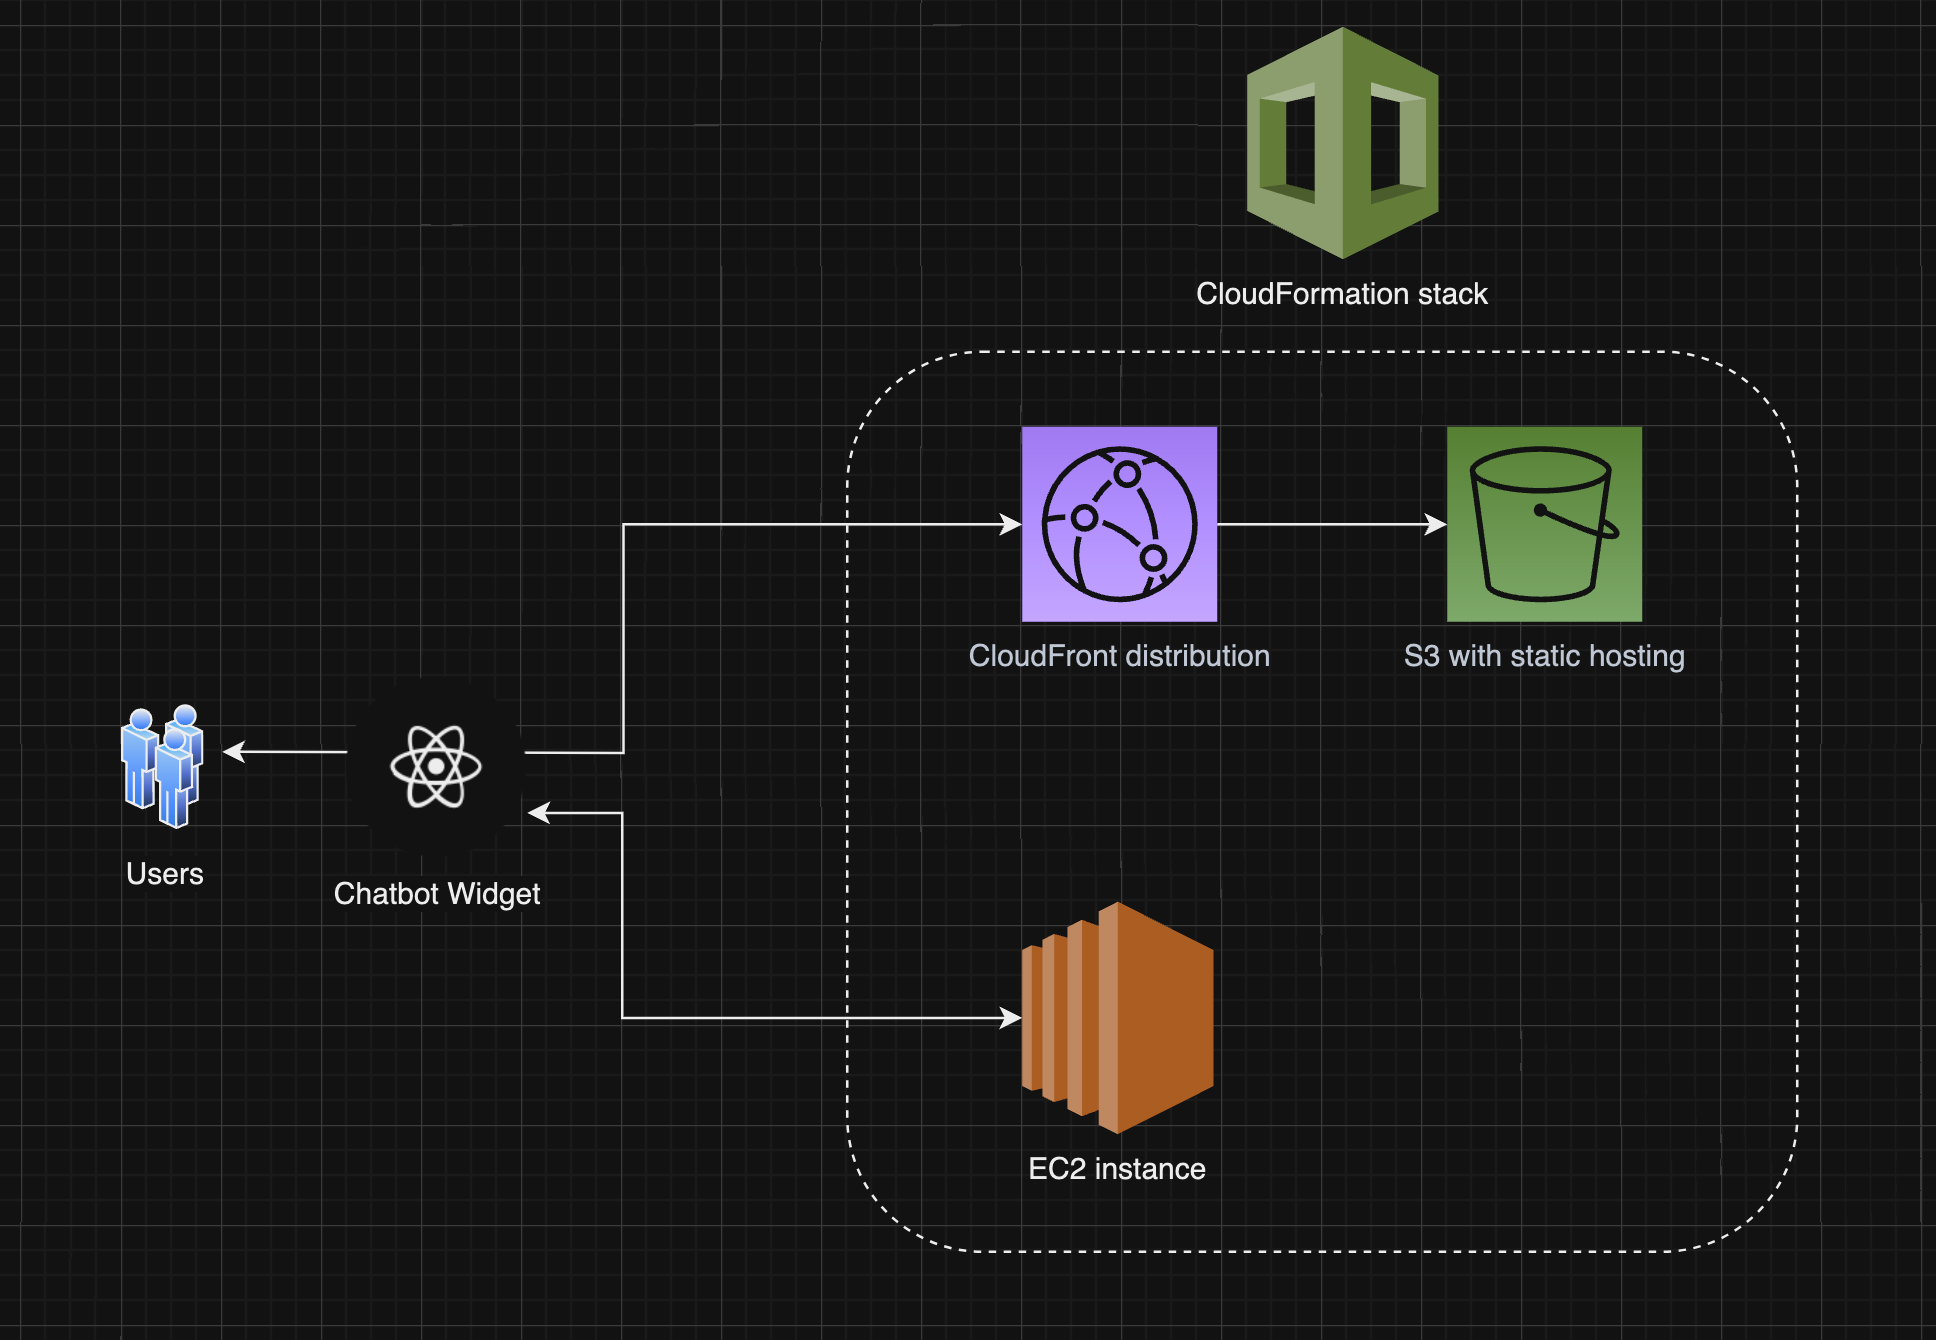
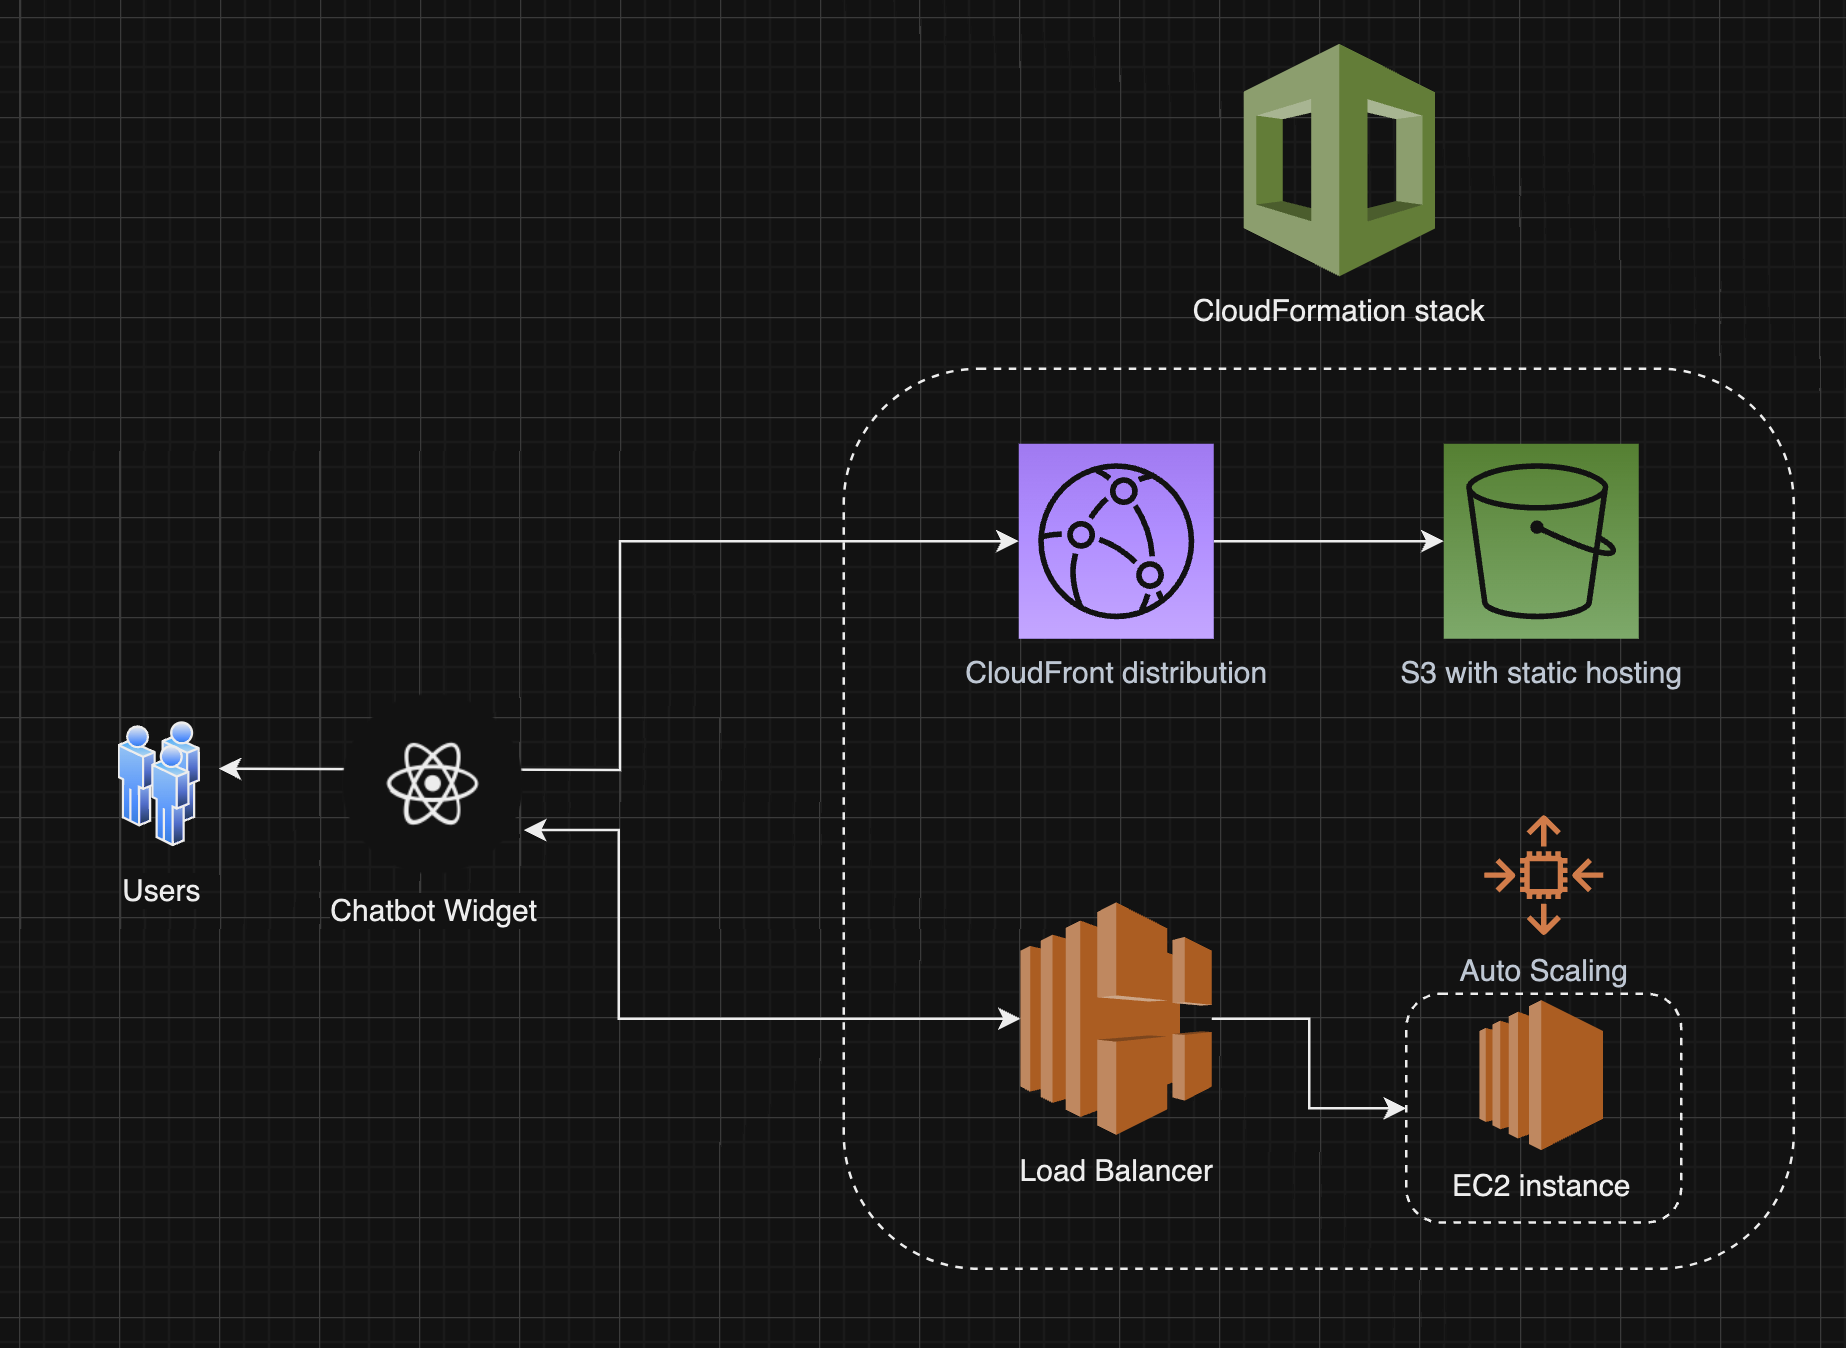
feat: Add a load balancer to the infrastructure and use personal domain

diff --git a/infrastructure/lib/infrastructure-stack.ts b/infrastructure/lib/infrastructure-stack.ts
@@ -1,11 +1,13 @@
-import * as cdk from 'aws-cdk-lib';
 import { Construct } from 'constructs';
+import * as cdk from 'aws-cdk-lib';
 import * as ec2 from 'aws-cdk-lib/aws-ec2';
 import { BucketDeployment, Source } from 'aws-cdk-lib/aws-s3-deployment';
 import { Bucket, BucketAccessControl } from 'aws-cdk-lib/aws-s3';
 import { Distribution } from 'aws-cdk-lib/aws-cloudfront';
 import { S3BucketOrigin } from 'aws-cdk-lib/aws-cloudfront-origins';
 import { RemovalPolicy } from 'aws-cdk-lib';
+import { ApplicationLoadBalancer } from 'aws-cdk-lib/aws-elasticloadbalancingv2';
+import { AutoScalingGroup } from 'aws-cdk-lib/aws-autoscaling';
 import path = require('path');
 
 export class InfrastructureStack extends cdk.Stack {
@@ -23,9 +25,10 @@ export class InfrastructureStack extends cdk.Stack {
     // Outputs the CloudFront URL
     this.createFrontendResources();
 
-    // Create an EC2 instance along with a vpc and security group
-    // It allows HTTP traffic on port 80 and port 22
-    this.createEc2Instance();
+    // Create an Application Load Balancer that targets an EC2 auto-scaling group
+    // It allows HTTP traffic on port 80, 443, and 22 through a security group
+    // Outputs the Load Balancer URL
+    this.createBackendResources();
   }
 
   private createFrontendResources() {
@@ -56,52 +59,50 @@ export class InfrastructureStack extends cdk.Stack {
     });
   }
 
-  private createEc2Instance() {
+  private createBackendResources() {
     const vpc = ec2.Vpc.fromLookup(this, 'DefaultVpc', {
       isDefault: true,
     });
-
-    const securityGroup = new ec2.SecurityGroup(this, 'Ec2Sg', {
-      vpc,
-    });
-
-    securityGroup.addIngressRule(
-      ec2.Peer.anyIpv4(),
-      ec2.Port.tcp(80),
-      'Allow HTTP traffic'
-    );
-
-    securityGroup.addIngressRule(
-      ec2.Peer.anyIpv4(),
-      ec2.Port.tcp(22),
-      'Allow SSH traffic'
-    );
   
-    const keyPair = new ec2.KeyPair(
-        this,
-        'Ec2KeyPair',
-    )
+    const ec2TargetGroup = this.createEc2AutoScalingGroup(vpc);
 
-    const ec2Instance = new ec2.Instance(this, 'Ec2Instance', {
+    this.createLoadBalancer(vpc, ec2TargetGroup);
+  }
+
+  private createEc2AutoScalingGroup(vpc: cdk.aws_ec2.IVpc) {
+    const securityGroup = this.createSecurityGroup(vpc);
+
+    const keyPair = new ec2.KeyPair(
+      this,
+      'Ec2KeyPair'
+    );
+
+    // The 'user data' is a script that will run when the EC2 instance starts
+    // It will start a Docker container with the ArtisanAI API
+    const userData = this.buildUserData();
+
+    const ec2TargetGroup = new AutoScalingGroup(this, 'Ec2AutoScalingGroup', {
       vpc,
-      vpcSubnets: {
-        subnetType: ec2.SubnetType.PUBLIC,
-      },
-      securityGroup,
       keyPair,
+      securityGroup,
+      userData,
       instanceType: ec2.InstanceType.of(
-        ec2.InstanceClass.T2,
+        ec2.InstanceClass.BURSTABLE2,
         ec2.InstanceSize.MICRO
       ),
       machineImage: new ec2.AmazonLinuxImage({
         generation: ec2.AmazonLinuxGeneration.AMAZON_LINUX_2,
       }),
+      minCapacity: 1,
+      maxCapacity: 1,
     });
+    return ec2TargetGroup;
+  }
 
+  private buildUserData() {
+    const userData = ec2.UserData.forLinux();
     const dockerRunCommand = `docker run --rm -e EC2_PRIVATE_IP=$EC2_PRIVATE_IP --name artisanai-api -d -p 80:8000 ${InfrastructureStack.dockerImage}`;
-    // The 'user data' is a script that will run when the EC2 instance starts
-    // It will start a Docker container with the ArtisanAI API
-    ec2Instance.addUserData(
+    userData.addCommands(
       // Install Docker
       'yum update -y',
       'yum install docker -y',
@@ -131,17 +132,75 @@ export class InfrastructureStack extends cdk.Stack {
       //   Command 'restart' will restart the container
       `echo "alias restart=\'docker restart artisanai-api\'" >> /home/ec2-user/.bashrc`,
       //   Command 'redeploy' will pull the latest image and restart the container
-      `echo "alias restart=\'pull; restart\'" >> /home/ec2-user/.bashrc`,
+      `echo "alias redeploy=\'pull; restart\'" >> /home/ec2-user/.bashrc`
+    );
+    return userData;
+  }
+
+  private createSecurityGroup(vpc: cdk.aws_ec2.IVpc) {
+    const securityGroup = new ec2.SecurityGroup(this, 'Ec2Sg', {
+      vpc,
+    });
+
+    securityGroup.addIngressRule(
+      ec2.Peer.anyIpv4(),
+      ec2.Port.tcp(80),
+      'Allow HTTP traffic'
     );
 
-    new cdk.CfnOutput(this, 'Ec2PublicEndpoint', {
-      value: `http://${ec2Instance.instancePublicDnsName}`,
+    securityGroup.addIngressRule(
+      ec2.Peer.anyIpv4(),
+      ec2.Port.tcp(443),
+      'Allow HTTPS traffic'
+    );
+
+    securityGroup.addIngressRule(
+      ec2.Peer.anyIpv4(),
+      ec2.Port.tcp(22),
+      'Allow SSH traffic'
+    );
+
+    securityGroup.addEgressRule(
+      ec2.Peer.anyIpv4(),
+      ec2.Port.allTraffic(),
+      'Allow all outboud traffic'
+    );
+
+    return securityGroup;
+  }
+
+  private createLoadBalancer(vpc: cdk.aws_ec2.IVpc, ec2TargetGroup: cdk.aws_autoscaling.AutoScalingGroup) {
+    const loadBalancer = new ApplicationLoadBalancer(this, 'Ec2LoadBalancer', {
+      vpc,
+      internetFacing: true,
     });
 
-    new cdk.CfnOutput(this, 'Ec2PublicEndpointDocs', {
-      value: `http://${ec2Instance.instancePublicDnsName}/docs`,
+    const httpListener = loadBalancer.addListener('HttpListener', {
+      port: 80,
+      open: true,
     });
 
-    return ec2Instance;
+    const httpsListener = loadBalancer.addListener('HttpsListener', {
+      port: 443,
+      open: true,
+      certificates: [{
+        // Replace with your own certificate ARN
+        certificateArn: 'arn:aws:acm:us-east-1:564565010751:certificate/707e04dc-bbd6-496e-b219-bbdde611c8c4',
+      }],
+    });
+
+    httpListener.addTargets('HttpTargetEc2Instance', {
+      port: 80,
+      targets: [ec2TargetGroup],
+    });
+
+    httpsListener.addTargets('HttpsTargetEc2Instance', {
+      port: 80,
+      targets: [ec2TargetGroup],
+    });
+
+    new cdk.CfnOutput(this, 'BackendPublicEndpoint', {
+      value: `http://${loadBalancer.loadBalancerDnsName}`,
+    });
   }
 }

diff --git a/artisanai-api/app/main.py b/artisanai-api/app/main.py
@@ -1,4 +1,6 @@
 
+import os
+
 from fastapi import FastAPI
 from fastapi.middleware.cors import CORSMiddleware
 
@@ -12,6 +14,10 @@ app.add_middleware(
     CORSMiddleware,
     allow_origins=[
         'http://localhost:3000',
+
+        # For AWS health checks
+        os.environ.get('EC2_PRIVATE_IP'),
+
         # For simplicity, if creating a new distribution, etc...
         '*',
 

diff --git a/infrastructure/README.md b/infrastructure/README.md
@@ -22,11 +22,11 @@ The infrastructure resides in a CloudFormation Stack, which contains the followi
 ### Data flow
 
 1. The user access the app's DNS, that redirects to the CloudFront's distribution CNAME.
-    * At the time of this writing, there's no DNS domain purchased. So the user will access the distribution's DNS directly.
+    * At the time of this writing, there's no domain purchased. So the user will access the distribution's DNS directly.
 2. The distribution fetches the origin's (S3 bucket) data, and serves them as a standard webserver would.
     * HTTP headers must be allowed here.
-3. The user's browser then renders the Chatbot Widget app, which sends HTTP requests to the EC2 instance public DNS
-    * Whenever we purchase a DNS domain, we should also add a subdomain CNAME record to the EC2 name.
+3. The user's browser then renders the Chatbot Widget app, which sends HTTPS requests to the EC2 load balancer
+4. The load balancer listener on port 443 redirects the request to one of the Auto Scaling EC2 instances on port 80
 
 ## Deploying 🛠
 
@@ -43,6 +43,7 @@ cdk bootstrap
 
 
 1. Ensure there's a `build` directory in the frontend module
+    * Configure your `../artisanai-chat-widget/.env` to point to a static domain name
 
     * Running `npm run build` in `../artisanai-chatbot-widget` does the trick.
 
@@ -55,17 +56,8 @@ cdk bootstrap
     cdk deploy
     ```
     * Note that to create the initial resources it will take several minutes. That's due to the CloudFront distribution, which sets up a global CDN for us.
-4. Set the backend endpoint in the frontend app
-
-    * While there's no static DNS, this step is required
-
-    * Copy the `Ec2PublicEndpoint` from the outputs
-
-    * Paste it in `../artisanai-chat-widget/.env`
-
-    * Re-build the frontend
-
-    * Re-deploy (repeat step 3.)
+4. Configure a DNS record pointing to the Load Balancer public DNC
+    * You can grab it from the previous step's outputs
 
 Note that changes to the frontend may take some time to propagate to CloudFront's CDN.\
 You either have to wait or manually invalidate the distribution.

diff --git a/README.md b/README.md
@@ -17,10 +17,19 @@ This project is an MVP for the ArtisanAI chatbot product. The main goal is to va
 ## Running 🏃➡
 
 ### Dev/Local
-- The instructions to run the backend and frontend are located in the respective directories README.md files: `artisanai-api/README.md` and `artisanai-chat-widget/README.md`
+The instructions to run the backend and frontend are located in the respective directories README.md files:
+- [`artisanai-api/README.md`](artisanai-api/README.md)
+- [`artisanai-chat-widget/README.md`](artisanai-chat-widget/README.md)
+
+### Production
+The production setup is done through Infrastructure-as-Code, and is located in the `infrastructure` directory.
+
+To run the full stack in your AWS account, follow the instructions in [here](infrastructure/README.md)
 
 ## Next Steps 🚀
 
+- Buy a domain for our chatbot
+    - In order to deploy to AWS with the desired infrastructure, I used a personal domain
 - Add CI/CD pipelines with GitHub actions.
     - Fully integrate with the infrastructure module.
 - Add E2E testing with Cypress + Cucumber.
